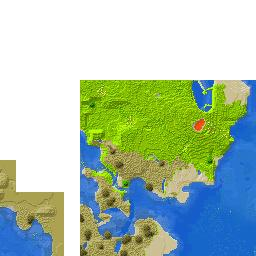
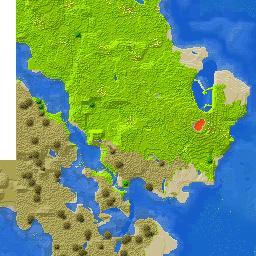
update

diff --git a/unmined.map.regions.js b/unmined.map.regions.js
@@ -1,6 +1,6 @@
 var UnminedRegions = [
 { x: 0, z: 0, m: new Uint32Array([1574407,3,0,0,0,0,0,0,0,0,0,0,0,0,0,0,0,0,0,0,0,0,0,0,0,0,0,0,0,0,0,0,0,0,0,0,0,0,0,0,0,0,0,0,0,0,0,0,0,0,0,0,0,0,0,0,0,0,0,0,0,0,0,0,0,0,0,0,0,0,0,0,0,0,0,0,0,0,0,0,0,0,0,0,0,0,0,0,0,0,0,0,0,0,0,0,0,0,0,0,0,0,0,0,0,0,0,0,0,0,0,0,0,0,0,0,0,0,0,0,0,0,0,0,0,0,0,0,0,0,0,0,0,0,0,0,0,0,0,0,0,0,0,0,0,0,0,0,0,0,0,0,0,0,0,0,0,0,0,0,0,0,0,0,0,0,0,0,0,0,0,0,0,0,0,0,0,0,0,0,0,0,0,0,0,0,0,0,0,0,0,0,0,0,0,0,0,0,0,0,0,0,0,0,0,0,0,0,0,0,0,0,0,0,0,0,0,0,0,0,0,0,0,0,0,0,0,0,0,0,0,0,0,0,0,0,0,0,0,0,0,0,0,0,0,0,0,0,0,0,0,0,0,0,0,0]) },
-{ x: 0, z: -1, m: new Uint32Array([0,0,0,0,0,0,0,0,0,0,0,0,0,0,0,0,0,0,0,0,0,0,0,0,0,0,0,0,0,0,0,1574407,0,0,0,0,0,0,0,0,0,0,0,0,0,0,0,0,0,0,0,0,0,0,0,0,0,0,0,0,0,0,0,0,0,0,0,0,0,0,0,0,0,0,0,0,0,0,0,0,0,0,0,0,0,0,0,0,0,0,0,0,0,0,0,0,0,0,0,0,0,0,0,0,0,0,0,0,0,0,0,0,0,0,0,0,0,0,0,0,0,0,0,0,0,0,0,0,0,0,0,0,0,0,0,0,0,0,0,0,0,0,0,0,0,0,0,0,0,0,0,0,0,0,0,0,0,0,0,0,0,0,0,0,0,0,0,0,0,0,0,0,0,0,0,0,0,0,0,0,0,0,0,0,0,0,0,0,0,0,0,0,0,0,0,0,0,0,0,0,0,0,0,0,0,0,0,0,0,0,0,0,0,0,0,0,0,0,0,0,0,0,0,0,0,0,0,0,0,0,0,0,0,0,0,0,0,0,0,0,0,0,0,0,0,0,0,0,0,0,0,0,0,0,0,0]) },
+{ x: 0, z: -1, m: new Uint32Array([0,0,0,0,0,0,0,0,0,0,0,0,0,0,0,0,0,0,0,0,0,0,0,0,0,0,0,0,0,0,7,1574407,0,0,0,0,0,0,0,0,0,0,0,0,0,0,0,0,0,0,0,0,0,0,0,0,0,0,0,0,0,0,0,0,0,0,0,0,0,0,0,0,0,0,0,0,0,0,0,0,0,0,0,0,0,0,0,0,0,0,0,0,0,0,0,0,0,0,0,0,0,0,0,0,0,0,0,0,0,0,0,0,0,0,0,0,0,0,0,0,0,0,0,0,0,0,0,0,0,0,0,0,0,0,0,0,0,0,0,0,0,0,0,0,0,0,0,0,0,0,0,0,0,0,0,0,0,0,0,0,0,0,0,0,0,0,0,0,0,0,0,0,0,0,0,0,0,0,0,0,0,0,0,0,0,0,0,0,0,0,0,0,0,0,0,0,0,0,0,0,0,0,0,0,0,0,0,0,0,0,0,0,0,0,0,0,0,0,0,0,0,0,0,0,0,0,0,0,0,0,0,0,0,0,0,0,0,0,0,0,0,0,0,0,0,0,0,0,0,0,0,0,0,0,0,0]) },
 { x: -1, z: -1, m: new Uint32Array([0,0,0,0,0,0,0,0,0,0,0,0,0,0,0,0,0,0,0,0,0,0,0,0,0,0,0,0,0,0,0,2147483648,0,0,0,0,0,0,0,0,0,0,0,0,0,0,0,0,0,0,0,0,0,0,0,0,0,0,0,0,0,0,0,0,0,0,0,0,0,0,0,0,0,0,0,0,0,0,0,0,0,0,0,0,0,0,0,0,0,0,0,0,0,0,0,0,0,0,0,0,0,0,0,0,0,0,0,0,0,0,0,0,0,0,0,0,0,0,0,0,0,0,0,0,0,0,0,0,0,0,0,0,0,0,0,0,0,0,0,0,0,0,0,0,0,0,0,0,0,0,0,0,0,0,0,0,0,0,0,0,0,0,0,0,0,0,0,0,0,0,0,0,0,0,0,0,0,0,0,0,0,0,0,0,0,0,0,0,0,0,0,0,0,0,0,0,0,0,0,0,0,0,0,0,0,0,0,0,0,0,0,0,0,0,0,0,0,0,0,0,0,0,0,0,0,0,0,0,0,0,0,0,0,0,0,0,0,0,0,0,0,0,0,0,0,0,0,0,0,0,0,0,0,0,0,0]) },
 { x: -1, z: 0, m: new Uint32Array([2147483648,2147483648,0,0,0,0,0,0,0,0,0,0,0,0,0,0,0,0,0,0,0,0,0,0,0,0,0,0,0,0,0,0,0,0,0,0,0,0,0,0,0,0,0,0,0,0,0,0,0,0,0,0,0,0,0,0,0,0,0,0,0,0,0,0,0,0,0,0,0,0,0,0,0,0,0,0,0,0,0,0,0,0,0,0,0,0,0,0,0,0,0,0,0,0,0,0,0,0,0,0,0,0,0,0,0,0,0,0,0,0,0,0,0,0,0,0,0,0,0,0,0,0,0,0,0,0,0,0,0,0,0,0,0,0,0,0,0,0,0,0,0,0,0,0,0,0,0,0,0,0,0,0,0,0,0,0,0,0,0,0,0,0,0,0,0,0,0,0,0,0,0,0,0,0,0,0,0,0,0,0,0,0,0,0,0,0,0,0,0,0,0,0,0,0,0,0,0,0,0,0,0,0,0,0,0,0,0,0,0,0,0,0,0,0,0,0,0,0,0,0,0,0,0,0,0,0,0,0,0,0,0,0,0,0,0,0,0,0,0,0,0,0,0,0,0,0,0,0,0,0,0,0,0,0,0,0]) },
 ];

diff --git a/unmined.map.properties.js b/unmined.map.properties.js
@@ -5,7 +5,7 @@ var UnminedMapProperties = {
     defaultZoom: 0,
     imageFormat: "jpeg",
     minRegionX: -1,
-    minRegionZ: -1,
+    minRegionZ: -2,
     maxRegionX: 20,
     maxRegionZ: 1,
     worldName: "world",
